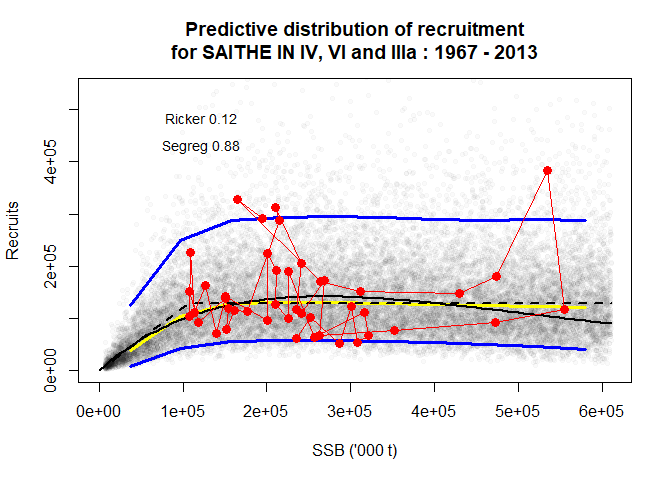
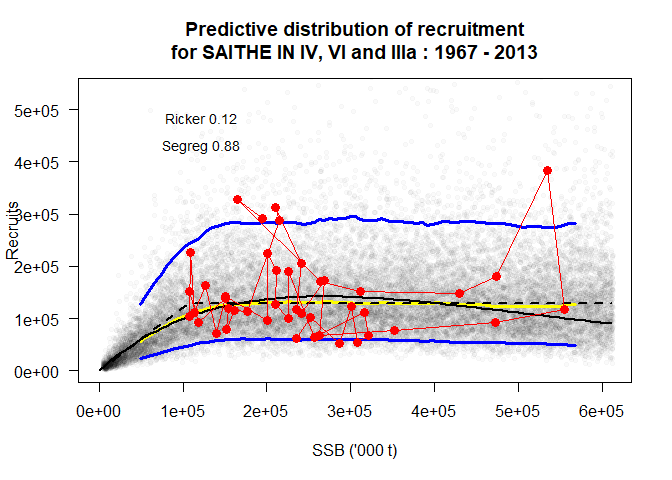
add chunk names and update readme

diff --git a/README.md b/README.md
@@ -1,6 +1,5 @@
 [![Build
 Status](https://travis-ci.org/ices-tools-prod/msy.svg?branch=master)](https://travis-ci.org/ices-tools-prod/msy)
-[![codecov](https://codecov.io/gh/ices-tools-prod/msy/branch/master/graph/badge.svg)](https://codecov.io/gh/ices-tools-prod/msy)
 [![local
 release](https://img.shields.io/github/release/ices-tools-prod/msy.svg?maxAge=3600)](https://github.com/ices-tools-prod/msy/tree/0.2-0)
 [![CRAN
@@ -59,6 +58,89 @@ install.packages("FLCore", repo = "http://flr-project.org/R")
 library(devtools)
 install_github("ices-tools-prod/msy")
 ```
+
+    ## 
+    ##   
+      
+      
+       checking for file 'D:\projects\git\ices-tools-prod\msy/DESCRIPTION' ...
+      
+       checking for file 'D:\projects\git\ices-tools-prod\msy/DESCRIPTION' ... 
+      
+    v  checking for file 'D:\projects\git\ices-tools-prod\msy/DESCRIPTION' (528ms)
+    ## 
+      
+      
+      
+    -  preparing 'msy': (1.1s)
+    ##   
+      
+       checking DESCRIPTION meta-information ...
+      
+       checking DESCRIPTION meta-information ... 
+      
+    v  checking DESCRIPTION meta-information
+    ## 
+      
+      
+      
+    -  checking for LF line-endings in source and make files and shell scripts (1.1s)
+    ## 
+      
+      
+      
+    -  checking for empty or unneeded directories
+    ## 
+      
+      
+      
+    -  looking to see if a 'data/datalist' file should be added
+    ## 
+      
+      
+      
+    -  building 'msy_0.1.18.tar.gz'
+    ## 
+      
+       
+    ## 
+    Running "D:/programs/R/R-3.5/bin/x64/Rcmd.exe" INSTALL \
+    ##   "C:\Users\colin\AppData\Local\Temp\RtmpK4nngL/msy_0.1.18.tar.gz" \
+    ##   --install-tests 
+    ## * installing to library 'D:/R/win-library/3.5'
+    ## * installing *source* package 'msy' ...
+    ## ** R
+    ## ** data
+    ## *** moving datasets to lazyload DB
+    ## ** byte-compile and prepare package for lazy loading
+    ## ** help
+    ## *** installing help indices
+    ##   converting help for package     finding HTML links ...'msy'
+    ##  done
+    ##     Bevholt                                 html  
+    ##     Ricker                                  html  
+    ##     Segreg                                  html  
+    ##     bevholt2                                html  
+    ##     eqsim_ggplot                            html  
+    ##     eqsim_plot                              html  
+    ##     eqsim_plot_range                        html  
+    ##     eqsim_range                             html  
+    ##     eqsim_run                               html  
+    ##     eqsr_Buckland                           html  
+    ##     eqsr_fit                                html  
+    ##     eqsr_plot                               html  
+    ##     icesStocks                              html  
+    ##     initial                                 html  
+    ##     llik                                    html  
+    ##     msy-package                             html  
+    ##     segreg2                                 html  
+    ##     smooth_hockey                           html  
+    ## ** building package indices
+    ## ** testing if installed package can be loaded
+    ## *** arch - i386
+    ## *** arch - x64
+    ## * DONE (msy)
+    ## In R CMD INSTALL
 
 The above is equivalent to `install.packages` and hence need only to be
 performed once. However, since the `msy` package is currently under
@@ -156,18 +238,18 @@ SIM$Refs
 
 ``` 
                   F05          F10          F50    medianMSY      meanMSY
-catF     3.724201e-01 3.952663e-01 4.938595e-01 1.846154e-01 2.153846e-01
+catF     3.710933e-01 3.941449e-01 4.946953e-01 1.846154e-01 2.153846e-01
 lanF               NA           NA           NA 1.846154e-01 2.153846e-01
-catch    1.242538e+05 1.209436e+05 9.438258e+04 1.302175e+05 1.306105e+05
-landings           NA           NA           NA 1.302175e+05 1.306105e+05
-catB     1.939817e+05 1.771414e+05 1.058189e+05 4.088200e+05 3.540999e+05
-lanB               NA           NA           NA 4.088200e+05 3.540999e+05
+catch    1.238782e+05 1.208750e+05 9.460774e+04 1.300622e+05 1.304077e+05
+landings           NA           NA           NA 1.300622e+05 1.304077e+05
+catB     1.949532e+05 1.782281e+05 1.057544e+05 4.090448e+05 3.543909e+05
+lanB               NA           NA           NA 4.090448e+05 3.543909e+05
              FCrash05     FCrash50
 catF     4.615385e-01    0.6153846
 lanF               NA           NA
-catch    1.056576e+05 1722.3839424
+catch    1.058257e+05 2924.6731442
 landings           NA           NA
-catB     1.292579e+05 1515.1759130
+catB     1.296521e+05 2511.8059881
 lanB               NA           NA
 ```
 
@@ -177,7 +259,7 @@ Summary plots conditioned on maximizing **catch** are obtained by:
 eqsim_plot(SIM,catch=TRUE)
 ```
 
-![](README_files/figure-gfm/unnamed-chunk-2-1.png)<!-- -->
+![](README_files/figure-gfm/plot_catch-1.png)<!-- -->
 
 Summary plots of **Fmsy range** (WKMSYREF3) are obtained by:
 
@@ -185,19 +267,19 @@ Summary plots of **Fmsy range** (WKMSYREF3) are obtained by:
 eqsim_plot_range(SIM, type="mean")
 ```
 
-![](README_files/figure-gfm/unnamed-chunk-3-1.png)<!-- -->
+![](README_files/figure-gfm/plot_msy-1.png)<!-- -->
 
 ``` r
 eqsim_plot_range(SIM, type="median")
 ```
 
-![](README_files/figure-gfm/unnamed-chunk-3-2.png)<!-- -->
+![](README_files/figure-gfm/plot_msy-2.png)<!-- -->
 
 ``` r
 eqsim_plot_range(SIM, type="ssb")
 ```
 
-![](README_files/figure-gfm/unnamed-chunk-3-3.png)<!-- -->
+![](README_files/figure-gfm/plot_msy-3.png)<!-- -->
 
 ## The recruitment model
 
@@ -231,8 +313,7 @@ args(eqsr_fit)
 ```
 
     function (stk, nsamp = 5000, models = c("Ricker", "Segreg", "Bevholt"), 
-        method = "Buckland", id.sr = NULL, remove.years = NULL, delta = 1.3, 
-        nburn = 10000) 
+        id.sr = FLCore::name(stk), remove.years = NULL) 
     NULL
 
 Here:
@@ -256,26 +337,27 @@ str(FIT, 2, give.attr=FALSE)
 
     List of 6
      $ sr.sto:'data.frame': 1000 obs. of  4 variables:
-      ..$ a    : num [1:1000] 1.22 2.28 1.33 2.04 1.24 ...
-      ..$ b.b  : num [1:1000] 9.99e+04 6.12e-06 1.04e+05 5.39e-06 9.78e+04 ...
-      ..$ cv   : num [1:1000] 0.489 0.492 0.574 0.44 0.492 ...
-      ..$ model: chr [1:1000] "Segreg" "Ricker" "Segreg" "Ricker" ...
+      ..$ a    : num [1:1000] 1.19 1.29 1.21 1.24 1.92 ...
+      ..$ b.b  : num [1:1000] 9.29e+04 1.06e+05 1.06e+05 1.04e+05 5.38e-06 ...
+      ..$ cv   : num [1:1000] 0.45 0.541 0.471 0.42 0.498 ...
+      ..$ model: chr [1:1000] "Segreg" "Segreg" "Segreg" "Segreg" ...
      $ sr.det:'data.frame': 2 obs. of  6 variables:
       ..$ a    : num [1:2] 1.44 1.21
       ..$ b    : num [1:2] 3.74e-06 1.06e+05
       ..$ cv   : num [1:2] 0.521 0.492
       ..$ model: chr [1:2] "Ricker" "Segreg"
-      ..$ n    : int [1:2] 119 881
-      ..$ prop : num [1:2] 0.119 0.881
-     $ pRec  : num [1:1000, 1:44] 121799 126938 137826 122702 121787 ...
+      ..$ n    : int [1:2] 120 880
+      ..$ prop : num [1:2] 0.12 0.88
+     $ pRec  : num [1:1000, 1:44] 110142 136639 128081 128952 115870 ...
      $ stk   :Formal class 'FLStock' [package "FLCore"] with 20 slots
-     $ rby   :'data.frame': 44 obs. of  6 variables:
-      ..$ year    : int [1:44] 1967 1968 1969 1970 1971 1972 1973 1974 1975 1976 ...
-      ..$ rec     : num [1:44] 291836 327932 171373 152852 148741 ...
-      ..$ ssb     : num [1:44] 194228 164413 263979 311949 429606 ...
-      ..$ fbar    : num [1:44] 0.322 0.291 0.262 0.408 0.329 ...
-      ..$ landings: num [1:44] 113751 88326 130588 234962 265381 ...
-      ..$ catch   : num [1:44] 113751 88326 130588 234962 265381 ...
+     $ rby   :'data.frame': 44 obs. of  7 variables:
+      ..$ year        : int [1:44] 1967 1968 1969 1970 1971 1972 1973 1974 1975 1976 ...
+      ..$ rec         : num [1:44] 291836 327932 171373 152852 148741 ...
+      ..$ ssb         : num [1:44] 194228 164413 263979 311949 429606 ...
+      ..$ fbar        : num [1:44] 0.322 0.291 0.262 0.408 0.329 ...
+      ..$ landings    : num [1:44] 113751 88326 130588 234962 265381 ...
+      ..$ catch       : num [1:44] 113751 88326 130588 234962 265381 ...
+      ..$ remove.years: logi [1:44] FALSE FALSE FALSE FALSE FALSE FALSE ...
      $ id.sr : chr "SAITHE IN IV, VI and IIIa : 1967 - 2013"
 
 where:
@@ -302,9 +384,9 @@ FIT$sr.det
 ```
 
 ``` 
-         a            b        cv  model   n  prop
-1 1.443935 3.743708e-06 0.5207246 Ricker 119 0.119
-2 1.212853 1.062150e+05 0.4917162 Segreg 881 0.881
+         a            b        cv  model   n prop
+1 1.443935 3.743708e-06 0.5207246 Ricker 120 0.12
+2 1.212853 1.062150e+05 0.4917162 Segreg 880 0.88
 ```
 
 Here the a, b and cv are the estimated parameters from the deterministic
@@ -317,7 +399,7 @@ Again to obtain a plot one simply calls:
 eqsr_plot(FIT,n=2e4)
 ```
 
-![](README_files/figure-gfm/unnamed-chunk-7-1.png)<!-- -->
+![](README_files/figure-gfm/plot_fit_2-1.png)<!-- -->
 
 The `n` supplied to the `eqsr_plot` stands here for the number of
 stochastic recruitment points desired to include in the plot. The
@@ -333,7 +415,7 @@ fancy colours :-):
 eqsr_plot(FIT,n=2e4,ggPlot=TRUE,Scale=1e3)
 ```
 
-![](README_files/figure-gfm/unnamed-chunk-8-1.png)<!-- -->
+![](README_files/figure-gfm/plot_fit_ggplot-1.png)<!-- -->
 
 Here the model fits are represented in different colours with the yellow
 lines indicating the 5%, 50% and 95% percentiles of the stochastic
@@ -429,31 +511,32 @@ str(SIM, 2, give.attr = FALSE)
       ..$ weca : num [1:8, 1:2] 0.964 1.116 1.382 1.74 2.722 ...
       ..$ sel  : num [1:8, 1:2] 0.315 1.006 1.186 1.493 1.529 ...
      $ rbya         :List of 1
-      ..$ ferr: num [1:40, 1:50, 1:1000] -0.396 -0.396 -0.396 -0.396 -0.396 ...
-     $ rby          :'data.frame':  44 obs. of  6 variables:
-      ..$ year    : int [1:44] 1967 1968 1969 1970 1971 1972 1973 1974 1975 1976 ...
-      ..$ rec     : num [1:44] 291836 327932 171373 152852 148741 ...
-      ..$ ssb     : num [1:44] 194228 164413 263979 311949 429606 ...
-      ..$ fbar    : num [1:44] 0.322 0.291 0.262 0.408 0.329 ...
-      ..$ landings: num [1:44] 113751 88326 130588 234962 265381 ...
-      ..$ catch   : num [1:44] 113751 88326 130588 234962 265381 ...
+      ..$ ferr: num [1:40, 1:50, 1:1000] 0.203 0.203 0.203 0.203 0.203 ...
+     $ rby          :'data.frame':  44 obs. of  7 variables:
+      ..$ year        : int [1:44] 1967 1968 1969 1970 1971 1972 1973 1974 1975 1976 ...
+      ..$ rec         : num [1:44] 291836 327932 171373 152852 148741 ...
+      ..$ ssb         : num [1:44] 194228 164413 263979 311949 429606 ...
+      ..$ fbar        : num [1:44] 0.322 0.291 0.262 0.408 0.329 ...
+      ..$ landings    : num [1:44] 113751 88326 130588 234962 265381 ...
+      ..$ catch       : num [1:44] 113751 88326 130588 234962 265381 ...
+      ..$ remove.years: logi [1:44] FALSE FALSE FALSE FALSE FALSE FALSE ...
      $ rbp          :'data.frame':  160 obs. of  10 variables:
       ..$ Ftarget : num [1:160] 0 0.0308 0.0615 0.0923 0.1231 ...
       ..$ variable: chr [1:160] "Recruitment" "Recruitment" "Recruitment" "Recruitment" ...
-      ..$ p025    : num [1:160] 26441 32836 38160 41745 44240 ...
-      ..$ p05     : num [1:160] 36473 43370 47622 50819 53028 ...
-      ..$ p25     : num [1:160] 82121 84571 86601 88207 89730 ...
-      ..$ p50     : num [1:160] 121251 122385 123742 125223 126460 ...
-      ..$ p75     : num [1:160] 173802 174322 175199 176386 177503 ...
-      ..$ p95     : num [1:160] 287314 288162 289108 290173 291413 ...
-      ..$ p975    : num [1:160] 337189 337604 338081 339429 340985 ...
+      ..$ p025    : num [1:160] 27483 34415 39018 42237 44708 ...
+      ..$ p05     : num [1:160] 37452 44270 48406 51410 53625 ...
+      ..$ p25     : num [1:160] 81722 84240 86579 88387 89746 ...
+      ..$ p50     : num [1:160] 120450 121736 123263 124674 126146 ...
+      ..$ p75     : num [1:160] 172830 173347 174275 175464 176639 ...
+      ..$ p95     : num [1:160] 287730 288186 288821 289334 290374 ...
+      ..$ p975    : num [1:160] 338087 338714 339744 340541 341655 ...
       ..$ Mean    : num [1:160] NA NA NA NA NA NA NA NA NA NA ...
      $ Blim         : num 106000
      $ Bpa          : num 2e+05
-     $ Refs         : num [1:6, 1:7] 3.72e-01 NA 1.24e+05 NA 1.94e+05 ...
+     $ Refs         : num [1:6, 1:7] 3.71e-01 NA 1.24e+05 NA 1.95e+05 ...
      $ pProfile     :'data.frame':  1104 obs. of  3 variables:
-      ..$ Ftarget : num [1:1104] 0.108 0.109 0.11 0.111 0.112 ...
-      ..$ value   : num [1:1104] 9.29e-07 2.57e-06 5.35e-06 9.89e-06 1.70e-05 ...
+      ..$ Ftarget : num [1:1104] 0.138 0.139 0.14 0.141 0.142 ...
+      ..$ value   : num [1:1104] 0.000203 0.000526 0.001026 0.001782 0.002892 ...
       ..$ variable: chr [1:1104] "pFmsyCatch" "pFmsyCatch" "pFmsyCatch" "pFmsyCatch" ...
      $ id.sim       : chr "SAITHE IN IV, VI and IIIa : 1967 - 2013"
      $ refs_interval:'data.frame':  1 obs. of  8 variables:
@@ -463,9 +546,9 @@ str(SIM, 2, give.attr = FALSE)
       ..$ FmsyMedianL     : num 0.217
       ..$ FmsylowerMedianL: num 0.121
       ..$ FmsyupperMedianL: num 0.368
-      ..$ F5percRiskBlim  : num 0.372
+      ..$ F5percRiskBlim  : num 0.371
       ..$ Btrigger        : num 0
-     $ Refs2        : num [1:6, 1:9] 3.72e-01 NA 1.24e+05 NA 1.94e+05 ...
+     $ Refs2        : num [1:6, 1:9] 3.71e-01 NA 1.24e+05 NA 1.95e+05 ...
 
 where
 
@@ -498,5 +581,5 @@ t(SIM$refs_interval)
     ## FmsyMedianL      0.2170854
     ## FmsylowerMedianL 0.1206030
     ## FmsyupperMedianL 0.3678392
-    ## F5percRiskBlim   0.3724201
+    ## F5percRiskBlim   0.3710933
     ## Btrigger         0.0000000
